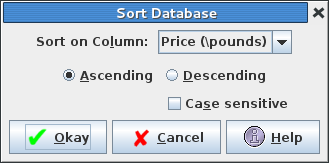
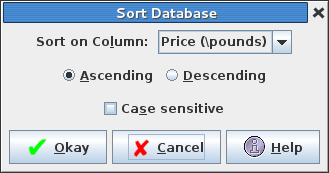
Started on preferences section of doc

diff --git a/src/java/gui/SortDialog.java b/src/java/gui/SortDialog.java
@@ -14,9 +14,11 @@ public class SortDialog extends JDialog
       super(gui, DatatoolTk.getLabel("sort.title"), true);
 
       JComponent mainPanel = Box.createVerticalBox();
+      mainPanel.setAlignmentX(0);
       getContentPane().add(mainPanel, BorderLayout.CENTER);
 
       JPanel row = new JPanel();
+      row.setAlignmentX(0);
       mainPanel.add(row);
 
       headerBox = new JComboBox<DatatoolHeader>();
@@ -25,6 +27,7 @@ public class SortDialog extends JDialog
       row.add(headerBox);
 
       row = new JPanel();
+      row.setAlignmentX(0);
       mainPanel.add(row);
 
       ButtonGroup bg = new ButtonGroup();
@@ -37,8 +40,12 @@ public class SortDialog extends JDialog
          "sort", "descending", bg, this);
       row.add(descendingButton);
 
+      row = new JPanel();
+      row.setAlignmentX(0);
+      mainPanel.add(row);
+
       isCaseSensitiveBox = DatatoolGuiResources.createJCheckBox("sort", "case_sensitive", this);
-      mainPanel.add(isCaseSensitiveBox);
+      row.add(isCaseSensitiveBox);
 
       getContentPane().add(
         DatatoolGuiResources.createOkayCancelHelpPanel(this, gui, "sort"),
